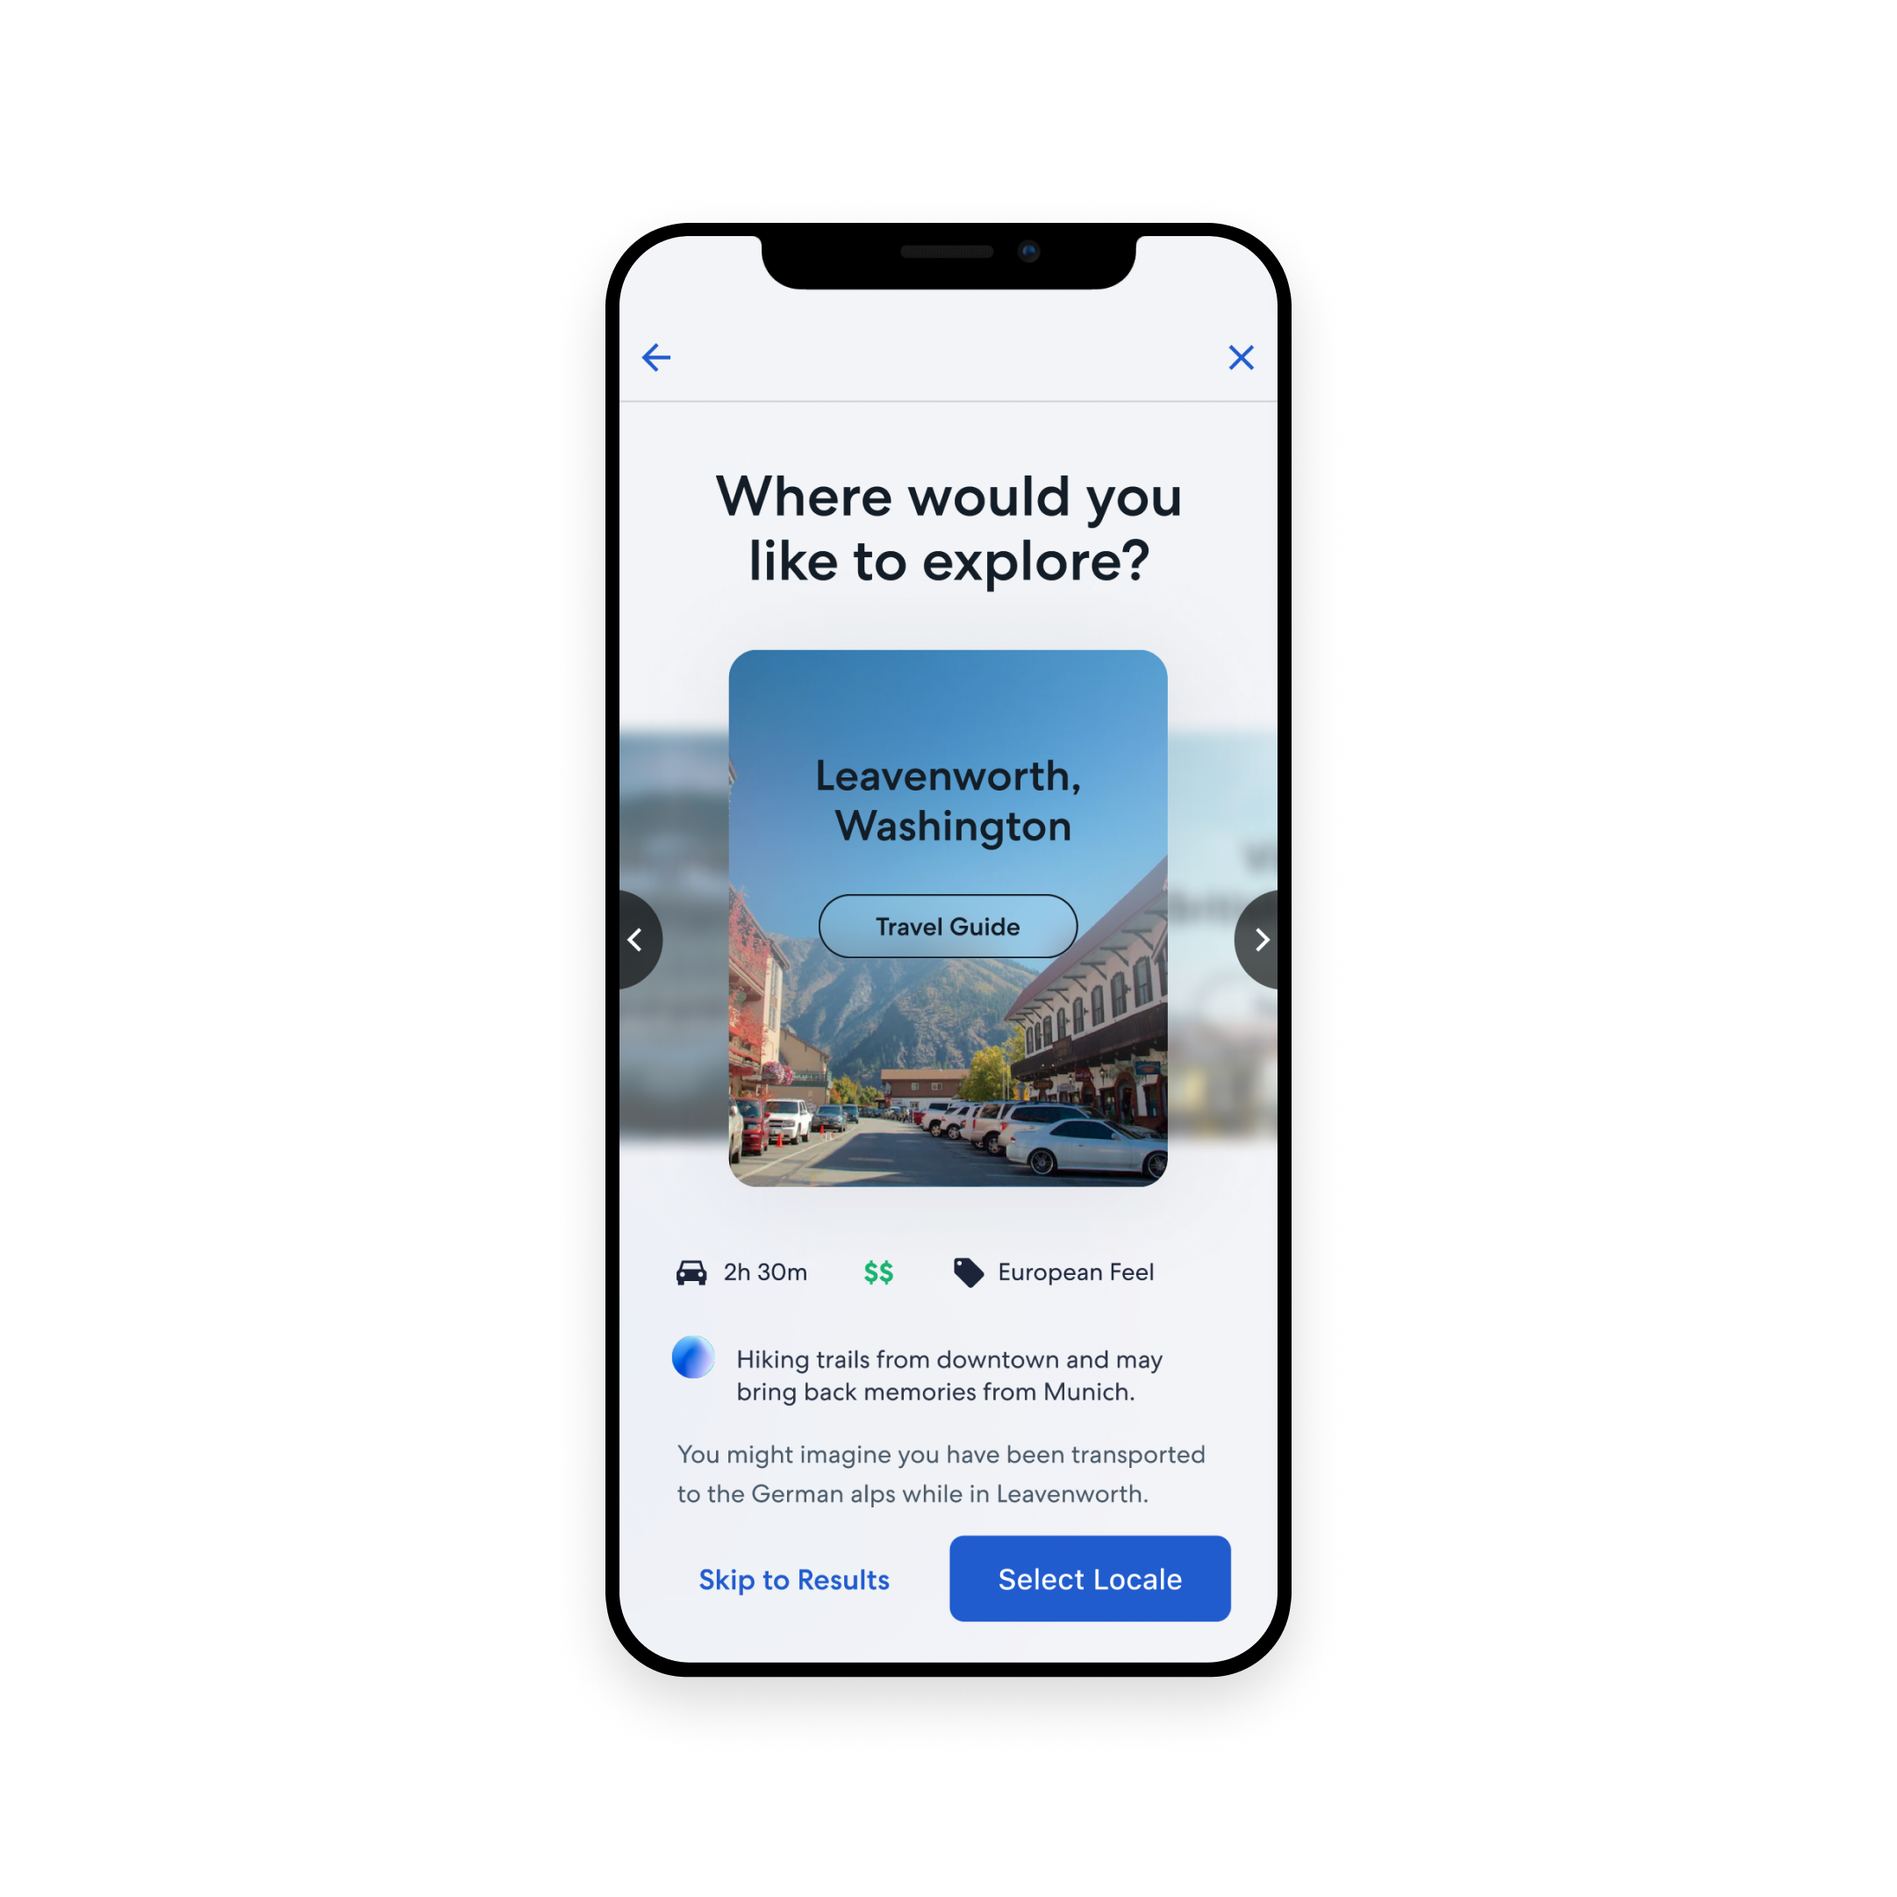
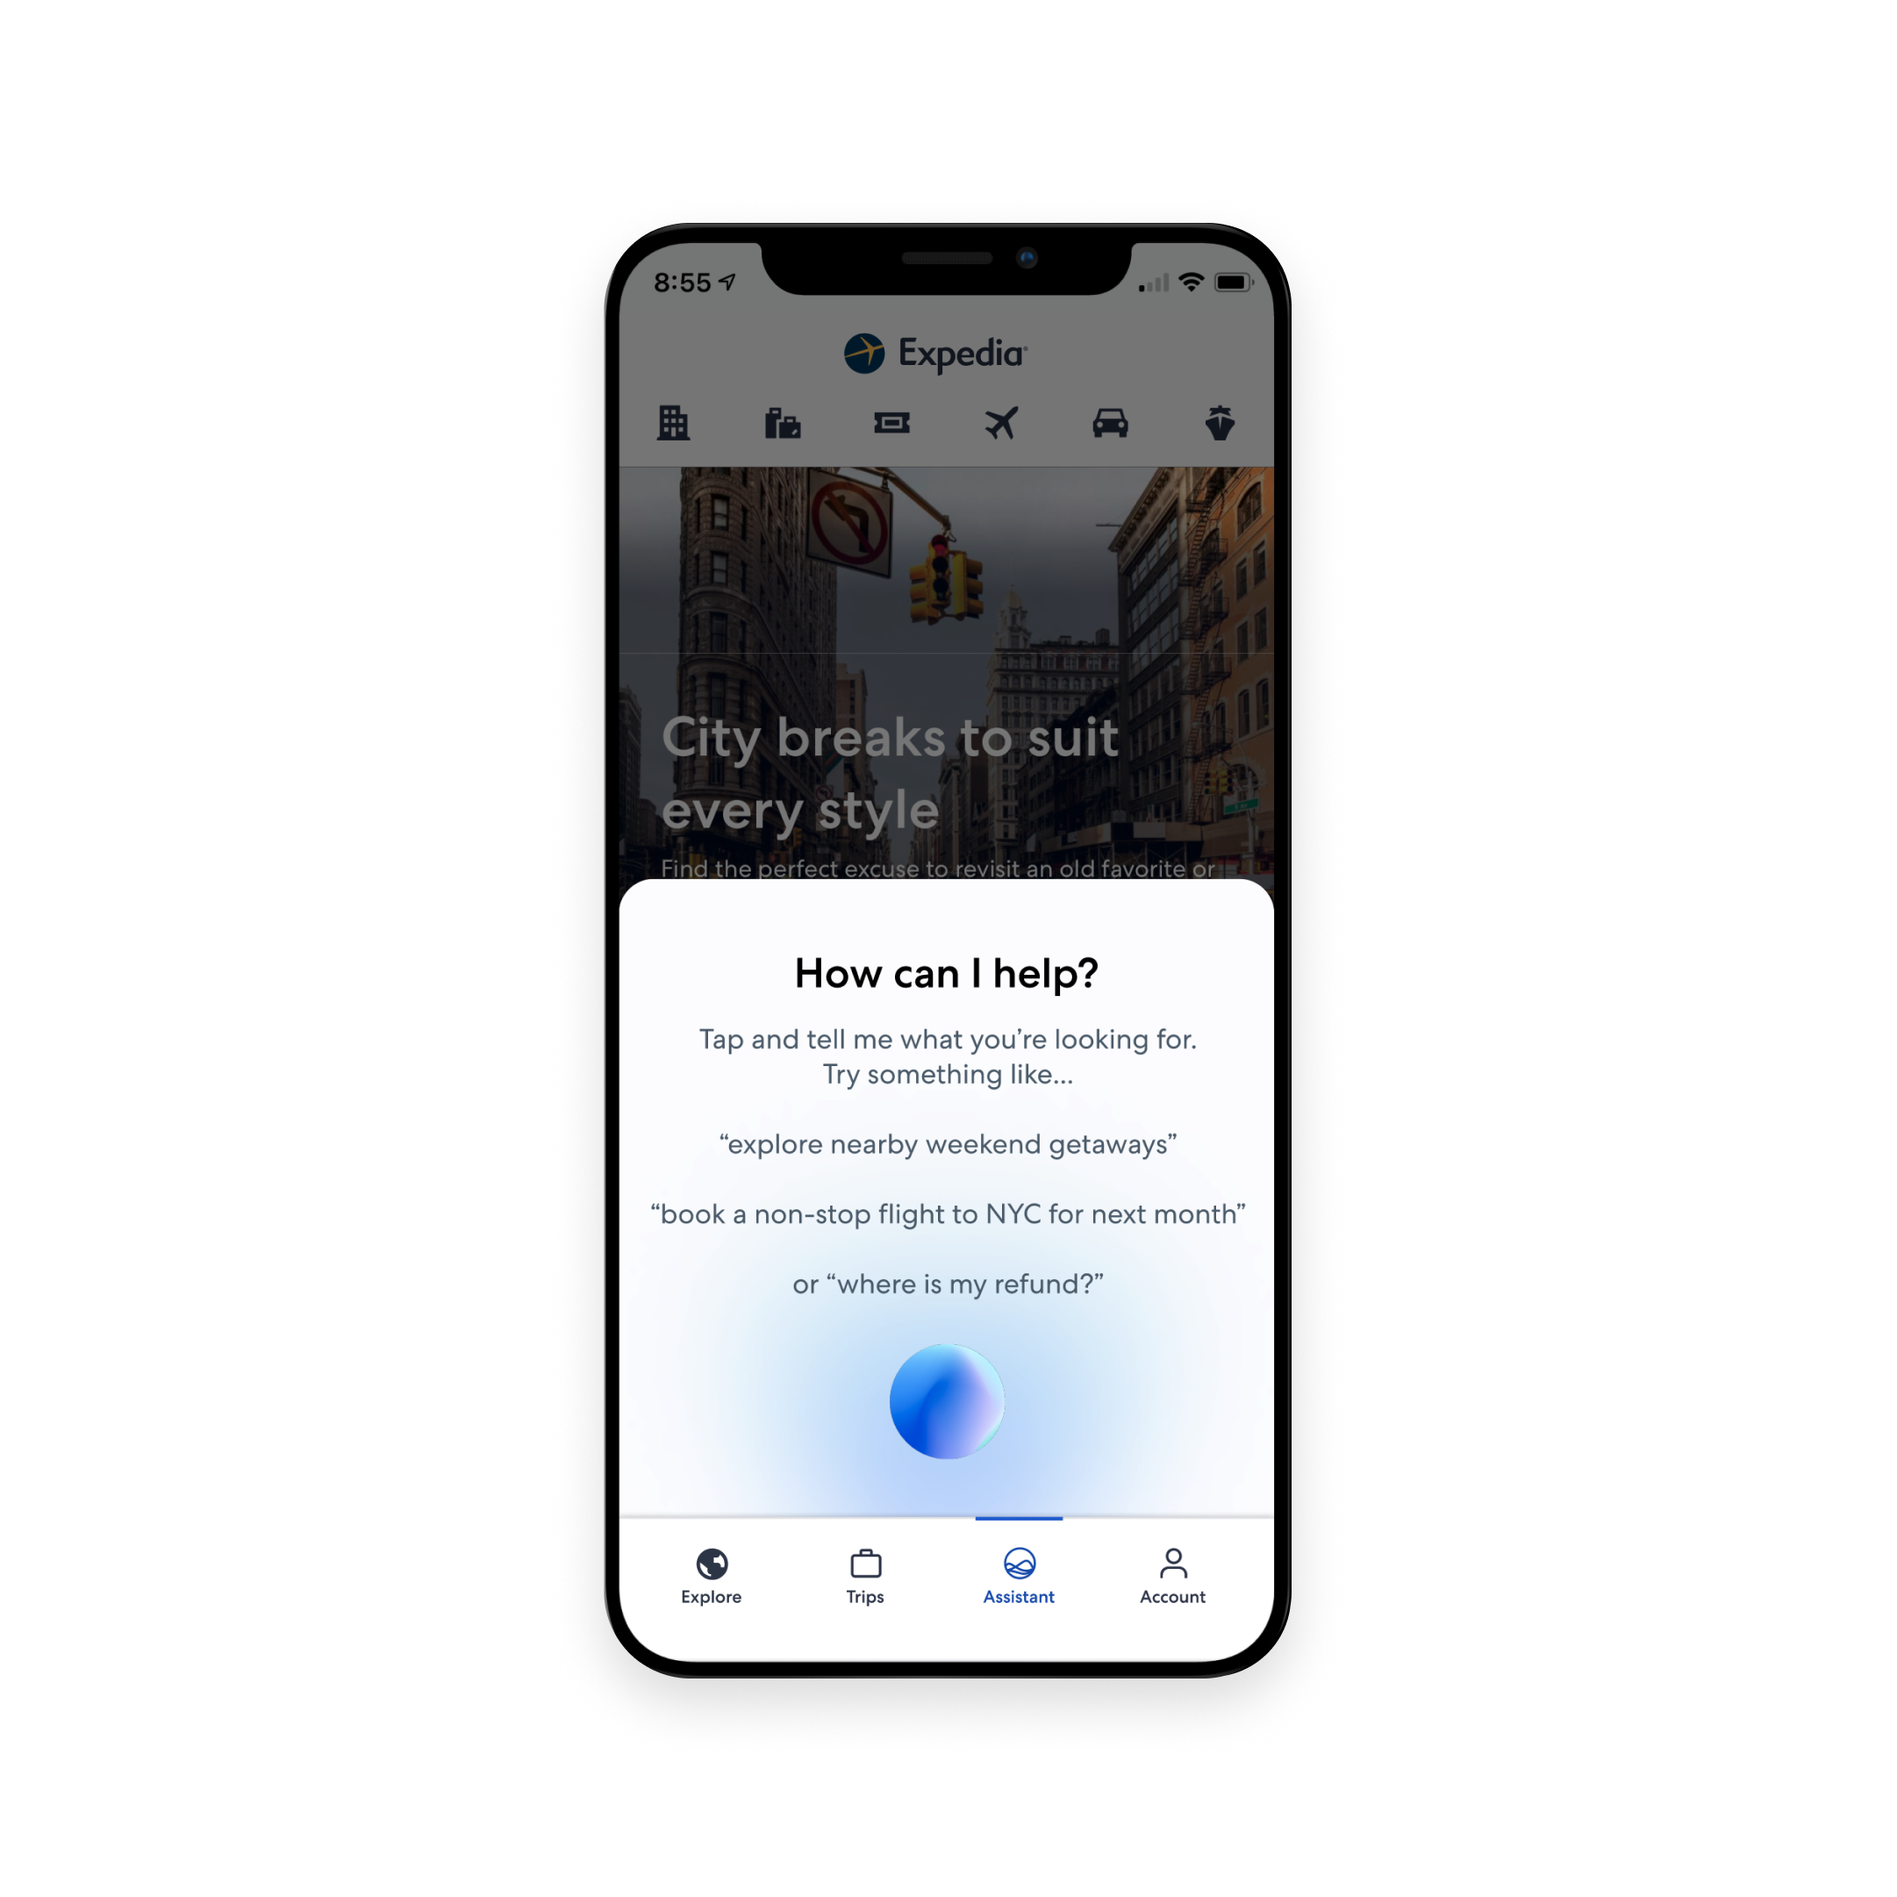
Update portfolio: hero labels, carousel padding, play page CTAs, email links
- Add "PRINCIPAL DESIGN LEADER" hero label on index
- Update email to jonathan.k.bowden@gmail.com on both pages
- Increase carousel dot padding to 88px
- Link all case studies to tinyurl.com/mr9mupr
- Update play.html hero text and add project CTAs (DailyFLO → dailyfloapp.com, others → email)
- Add dark theme CSS for play page (currently unused)

Changed region(s): [[0.3099, 0.124, 0.6818, 0.8677]]

diff --git a/play.html b/play.html
@@ -19,58 +19,65 @@
     </nav>
 
     <section class="hero hero-left">
-        <h1 class="hero-title hero-title-italic">Having fun with...</h1>
+        <span class="hero-label">HAVING A BIT OF FUN WITH</span>
+        <h1 class="hero-title">Claude code, swift, cursor &amp; more</h1>
     </section>
 
     <section class="projects">
         <!-- Project 1: DailyFLO -->
-        <div class="project project-surface">
-            <div class="project-image">
-                <img src="images/DailyFLO_hero@2x.png" alt="DailyFLO - Wholistic women's health app">
+        <a href="https://dailyfloapp.com" class="project-link-wrapper" target="_blank" rel="noopener">
+            <div class="project project-surface">
+                <div class="project-image">
+                    <img src="images/DailyFLO_hero@2x.png" alt="DailyFLO - Wholistic women's health app">
+                </div>
+                <div class="project-info">
+                    <span class="project-label">01</span>
+                    <h2 class="project-title">DailyFLO</h2>
+                    <p class="project-desc">Wholistic women's health app &ndash; including cycle tracking, meditation, journal and companion sync</p>
+                    <span class="project-meta">Claude Code  &middot;  iOS</span>
+                    <span class="view-project">Learn more &rarr;</span>
+                </div>
             </div>
-            <div class="project-info">
-                <span class="project-label">01</span>
-                <h2 class="project-title">DailyFLO</h2>
-                <p class="project-desc">Wholistic women's health app &ndash; including cycle tracking, meditation, journal and companion sync</p>
-                <span class="project-meta">Claude Code  &middot;  iOS</span>
-                <span class="view-project">Details &rarr;</span>
-            </div>
-        </div>
+        </a>
 
         <!-- Project 2: Matchedu -->
-        <div class="project project-alt">
-            <div class="project-image">
-                <img src="images/Matchedu_hero@2x.png" alt="Matchedu - Find your college match">
+        <a href="mailto:jonathan.k.bowden@gmail.com?subject=I%20want%20in%20on%20Matchedu" class="project-link-wrapper">
+            <div class="project project-alt">
+                <div class="project-image">
+                    <img src="images/Matchedu_hero@2x.png" alt="Matchedu - Find your college match">
+                </div>
+                <div class="project-info">
+                    <span class="project-label">02</span>
+                    <h2 class="project-title">Matchedu</h2>
+                    <p class="project-desc">A simple &amp; delightful matchmaker quiz, with weekly drops of your top match</p>
+                    <span class="project-meta">Claude Code  &middot;  Web</span>
+                    <span class="view-project">Sign Up for Beta Access &rarr;</span>
+                </div>
             </div>
-            <div class="project-info">
-                <span class="project-label">02</span>
-                <h2 class="project-title">Matchedu</h2>
-                <p class="project-desc">A simple &amp; delightful matchmaker quiz, with weekly drops of your top match</p>
-                <span class="project-meta">Claude Code  &middot;  Web</span>
-                <span class="view-project">Sign Up for Beta Access &rarr;</span>
-            </div>
-        </div>
+        </a>
 
         <!-- Project 3: shaped.by -->
-        <div class="project project-surface">
-            <div class="project-image">
-                <img src="images/ShapedBy_hero@2x.png" alt="shaped.by - See what shaped those in your life">
+        <a href="mailto:jonathan.k.bowden@gmail.com?subject=I%20want%20in%20on%20shaped.by" class="project-link-wrapper">
+            <div class="project project-surface">
+                <div class="project-image">
+                    <img src="images/ShapedBy_hero@2x.png" alt="shaped.by - See what shaped those in your life">
+                </div>
+                <div class="project-info">
+                    <span class="project-label">03</span>
+                    <h2 class="project-title">shaped.by</h2>
+                    <p class="project-desc">What if you could see what books, music, movies, places and experiences shaped those in your life?</p>
+                    <span class="project-meta">Claude Code  &middot;  Web</span>
+                    <span class="view-project">Sign Up for Beta Access &rarr;</span>
+                </div>
             </div>
-            <div class="project-info">
-                <span class="project-label">03</span>
-                <h2 class="project-title">shaped.by</h2>
-                <p class="project-desc">What if you could see what books, music, movies, places and experiences shaped those in your life?</p>
-                <span class="project-meta">Claude Code  &middot;  Web</span>
-                <span class="view-project">Sign Up for Beta Access &rarr;</span>
-            </div>
-        </div>
+        </a>
     </section>
 
     <section id="contact" class="contact">
         <span class="contact-label">COLLABORATE</span>
         <h2 class="contact-title">Might we jam?</h2>
         <div class="contact-links">
-            <a href="mailto:hello@jonathanbowden.com" class="btn">Say Hello</a>
+            <a href="mailto:jonathan.k.bowden@gmail.com" class="btn">Say Hello</a>
             <a href="https://linkedin.com/in/jonathanbowden" class="btn btn-outline" target="_blank" rel="noopener">LinkedIn</a>
         </div>
     </section>

diff --git a/index.html b/index.html
@@ -19,12 +19,13 @@
     </nav>
 
     <section class="hero hero-left">
+        <span class="hero-label">PRINCIPAL DESIGN LEADER</span>
         <h1 class="hero-title">Building 0 &rarr; 1<br>experiences on trust</h1>
     </section>
 
     <section class="projects">
         <!-- Project 1: Creators -->
-        <a href="creators.html" class="project-link-wrapper">
+        <a href="https://tinyurl.com/mr9mupr" class="project-link-wrapper" target="_blank" rel="noopener">
             <div class="project project-surface">
                 <div class="project-image">
                     <div class="carousel" data-carousel>
@@ -49,7 +50,7 @@
         </a>
 
         <!-- Project 2: Partnerships -->
-        <a href="partnerships.html" class="project-link-wrapper">
+        <a href="https://tinyurl.com/mr9mupr" class="project-link-wrapper" target="_blank" rel="noopener">
             <div class="project project-alt">
                 <div class="project-image">
                     <div class="carousel" data-carousel>
@@ -73,7 +74,7 @@
         </a>
 
         <!-- Project 3: Intelligence -->
-        <a href="intelligence.html" class="project-link-wrapper">
+        <a href="https://tinyurl.com/mr9mupr" class="project-link-wrapper" target="_blank" rel="noopener">
             <div class="project project-surface">
                 <div class="project-image">
                     <div class="carousel" data-carousel>
@@ -101,7 +102,7 @@
         <span class="contact-label">COLLABORATE</span>
         <h2 class="contact-title">Might we chat?</h2>
         <div class="contact-links">
-            <a href="mailto:hello@jonathanbowden.com" class="btn">Say Hello</a>
+            <a href="mailto:jonathan.k.bowden@gmail.com" class="btn">Say Hello</a>
             <a href="https://linkedin.com/in/jonathanbowden" class="btn btn-outline" target="_blank" rel="noopener">LinkedIn</a>
         </div>
     </section>
@@ -136,7 +137,7 @@
 
             function goToSlide(index) {
                 currentIndex = index;
-                slides[index].scrollIntoView({ behavior: 'smooth', block: 'nearest', inline: 'start' });
+                track.scrollTo({ left: index * track.offsetWidth, behavior: 'smooth' });
                 updateDots();
             }
 
@@ -161,22 +162,39 @@
                 }, 50);
             });
 
-            // Auto-advance every 4 seconds
-            let autoPlay = setInterval(() => {
-                currentIndex = (currentIndex + 1) % slides.length;
-                goToSlide(currentIndex);
-            }, 4000);
+            // Auto-advance only when visible
+            let autoPlay = null;
+            let isHovered = false;
 
-            // Pause auto-advance on hover/touch
-            carousel.addEventListener('mouseenter', () => clearInterval(autoPlay));
-            carousel.addEventListener('mouseleave', () => {
+            function startAutoPlay() {
+                if (autoPlay || isHovered) return;
                 autoPlay = setInterval(() => {
                     currentIndex = (currentIndex + 1) % slides.length;
                     goToSlide(currentIndex);
                 }, 4000);
-            });
+            }
 
-            carousel.addEventListener('touchstart', () => clearInterval(autoPlay), { passive: true });
+            function stopAutoPlay() {
+                clearInterval(autoPlay);
+                autoPlay = null;
+            }
+
+            const observer = new IntersectionObserver((entries) => {
+                entries.forEach(entry => {
+                    if (entry.isIntersecting) {
+                        startAutoPlay();
+                    } else {
+                        stopAutoPlay();
+                    }
+                });
+            }, { threshold: 0.3 });
+
+            observer.observe(carousel);
+
+            // Pause auto-advance on hover/touch
+            carousel.addEventListener('mouseenter', () => { isHovered = true; stopAutoPlay(); });
+            carousel.addEventListener('mouseleave', () => { isHovered = false; startAutoPlay(); });
+            carousel.addEventListener('touchstart', () => { isHovered = true; stopAutoPlay(); }, { passive: true });
         });
     });
     </script>

diff --git a/styles.css b/styles.css
@@ -89,11 +89,12 @@ a {
 }
 
 .hero-label {
-    font-size: 0.875rem;
-    font-weight: 500;
+    font-size: 1.125rem;
+    font-weight: 700;
     text-transform: uppercase;
     letter-spacing: 1.5px;
     color: var(--color-navy);
+    margin-left: 0.6rem;
 }
 
 .hero-title {
@@ -168,6 +169,7 @@ a {
     align-items: center;
     justify-content: center;
     overflow: hidden;
+    padding-bottom: 88px;
 }
 
 .project-image img {
@@ -216,7 +218,7 @@ a {
 
 .carousel .carousel-dots {
     position: absolute;
-    bottom: 24px;
+    bottom: 32px;
     left: 50%;
     transform: translateX(-50%);
     display: flex;
@@ -1966,4 +1968,105 @@ a {
     .nav-links {
         gap: 1rem;
     }
+}
+
+/* ===== Play Theme (Dark) ===== */
+.play-theme {
+    background: #111111;
+    color: #ffffff;
+}
+
+.play-theme .nav {
+    background: rgba(17, 17, 17, 0.93);
+}
+
+.play-theme .nav-logo {
+    color: #ffffff;
+}
+
+.play-theme .nav-link {
+    color: rgba(255, 255, 255, 0.7);
+}
+
+.play-theme .nav-link:hover,
+.play-theme .nav-link.active {
+    color: #ffffff;
+}
+
+.play-theme .hero-label {
+    color: rgba(255, 255, 255, 0.5);
+}
+
+.play-theme .hero-title {
+    color: #ffffff;
+}
+
+.play-theme .project-surface {
+    background: #1a1a1a;
+}
+
+.play-theme .project {
+    background: #111111;
+}
+
+.play-theme .project-alt {
+    background: #1a1a1a;
+}
+
+.play-theme .project-label {
+    color: rgba(255, 255, 255, 0.4);
+}
+
+.play-theme .project-title {
+    color: #ffffff;
+}
+
+.play-theme .project-desc {
+    color: rgba(255, 255, 255, 0.7);
+}
+
+.play-theme .project-meta {
+    color: rgba(255, 255, 255, 0.4);
+}
+
+.play-theme .view-project {
+    color: #ffffff;
+}
+
+.play-theme .contact {
+    background: #111111;
+}
+
+.play-theme .contact-label {
+    color: rgba(255, 255, 255, 0.5);
+}
+
+.play-theme .contact-title {
+    color: #ffffff;
+}
+
+.play-theme .btn {
+    background: #ffffff;
+    color: #111111;
+}
+
+.play-theme .btn:hover {
+    background: #e0e0e0;
+}
+
+.play-theme .btn-outline {
+    background: transparent;
+    color: #ffffff;
+    border-color: rgba(255, 255, 255, 0.3);
+}
+
+.play-theme .btn-outline:hover {
+    border-color: #ffffff;
+    color: #ffffff;
+    background: transparent;
+}
+
+.play-theme .footer {
+    color: rgba(255, 255, 255, 0.4);
+    border-top-color: rgba(255, 255, 255, 0.1);
 }
